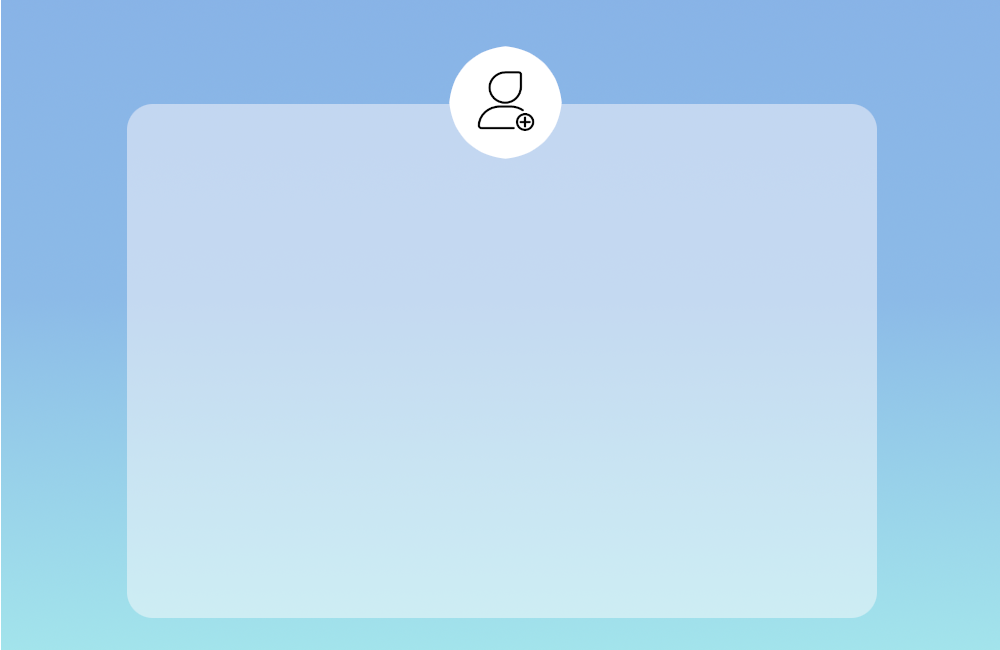
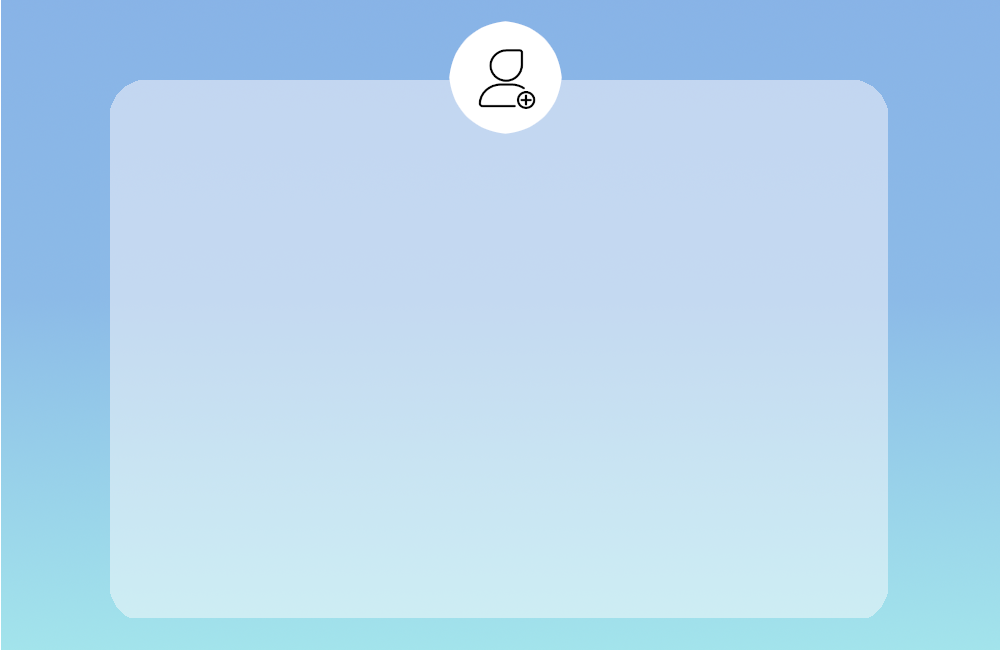
Конечная форма регистрации

Changed region(s): [[0.093, 0.0308, 0.899, 0.9538]]

diff --git a/src/main/resources/ForRegistration.css b/src/main/resources/ForRegistration.css
@@ -54,3 +54,19 @@
 }
 
 
+#lets_go {
+
+    -fx-border-color: "transparent" "transparent" "black" "transparent";
+     -fx-pref-width: 155px;
+          -fx-pref-height: 10px;
+     -fx-background-color:"transparent";
+          -fx-font-family: "Microsoft JhengHei Light";
+        -fx-font-size: 17;
+        -fx-text-fill: "black";
+}
+
+#lets_go:hover {
+
+    -fx-border-color: "black" "black" "black" "black";
+        -fx-text-fill: "black";
+}

diff --git a/target/classes/ForRegistration.css b/target/classes/ForRegistration.css
@@ -54,3 +54,19 @@
 }
 
 
+#lets_go {
+
+    -fx-border-color: "transparent" "transparent" "black" "transparent";
+     -fx-pref-width: 155px;
+          -fx-pref-height: 10px;
+     -fx-background-color:"transparent";
+          -fx-font-family: "Microsoft JhengHei Light";
+        -fx-font-size: 17;
+        -fx-text-fill: "black";
+}
+
+#lets_go:hover {
+
+    -fx-border-color: "black" "black" "black" "black";
+        -fx-text-fill: "black";
+}

diff --git a/src/main/java/Registration.java b/src/main/java/Registration.java
@@ -49,7 +49,7 @@ public class Registration {
          //   grid.setGridLinesVisible(true);
             grid.setAlignment(Pos.CENTER);
             grid.setHgap(70);
-            grid.setPadding(new Insets(230, 167, 0, 167));
+            grid.setPadding(new Insets(220, 167, 0, 167));
 
           grid.getColumnConstraints().add(new ColumnConstraints(300));
           grid.getColumnConstraints().add(new ColumnConstraints(300));
@@ -88,7 +88,7 @@ public class Registration {
           for_name.getChildren().add(re);
           re.setId("welcome-text");   //для CSS
           re.setLayoutX(365);
-          re.setLayoutY(153);
+          re.setLayoutY(145);
 
 
           //LABEL "ФАМИЛИЯ"
@@ -179,13 +179,20 @@ public class Registration {
           Button arrow = new Button("Зарегистрироваться");
           arrow.setId("buttons");
           arrow.setLayoutX(375);
-          arrow.setLayoutY(562);
+          arrow.setLayoutY(555);
           arrow.setOnAction(new EventHandler<ActionEvent>() {
             @Override
             public void handle(ActionEvent event) {
               RegistrCode.RegistrME();
             }
           });
+
+
+          Button av = new Button("Авторизация");
+          av.setId("lets_go");
+          av.setLayoutX(680);
+          av.setLayoutY(100);
+
 
 //            //КНОПУЛЕЧКА "←"
 //          Button arrow1 = new Button("←");
@@ -210,7 +217,7 @@ public class Registration {
 //            }
 //          });
 
-            Pane without_other_enter = new Pane(grid, re, arrow);
+            Pane without_other_enter = new Pane(grid, re, arrow, av);
             Scene scene = new Scene(without_other_enter, 1000, 650); //добавляем Grid в Scene
 
             primaryStage.setScene(scene); //добавляем scene в stage
